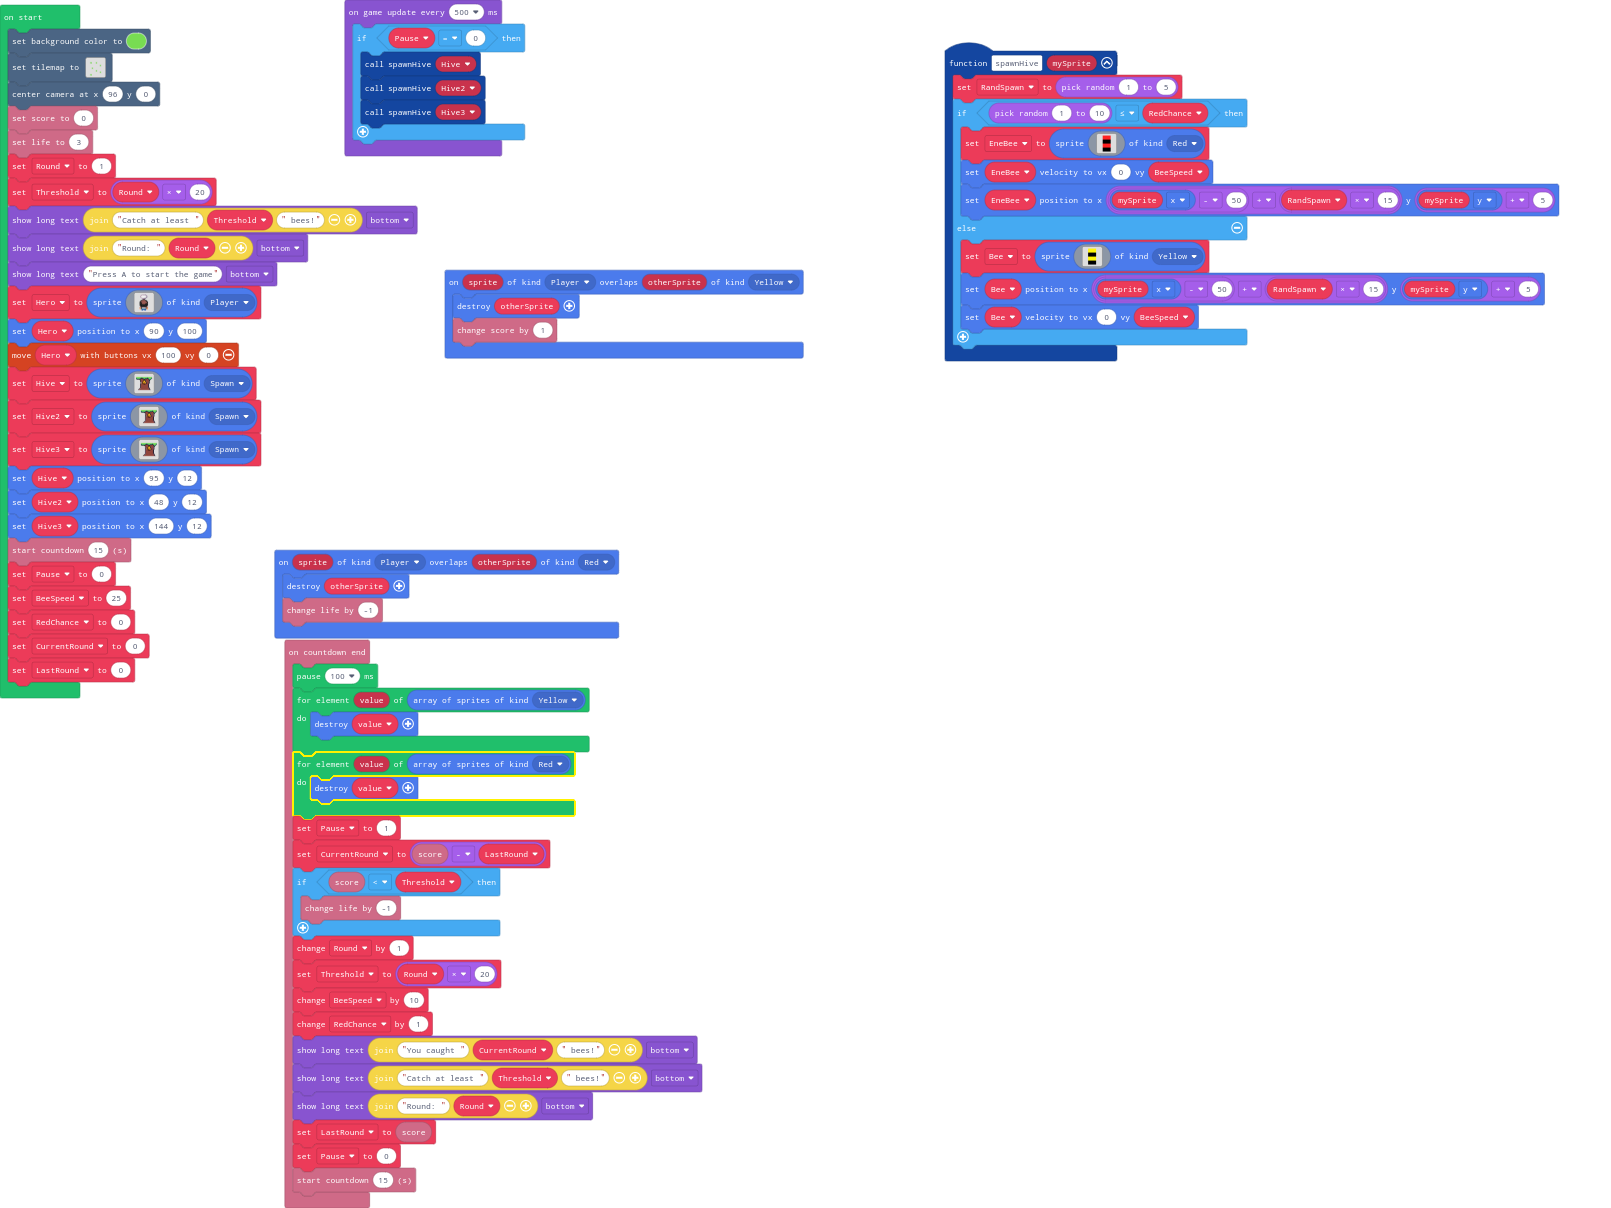
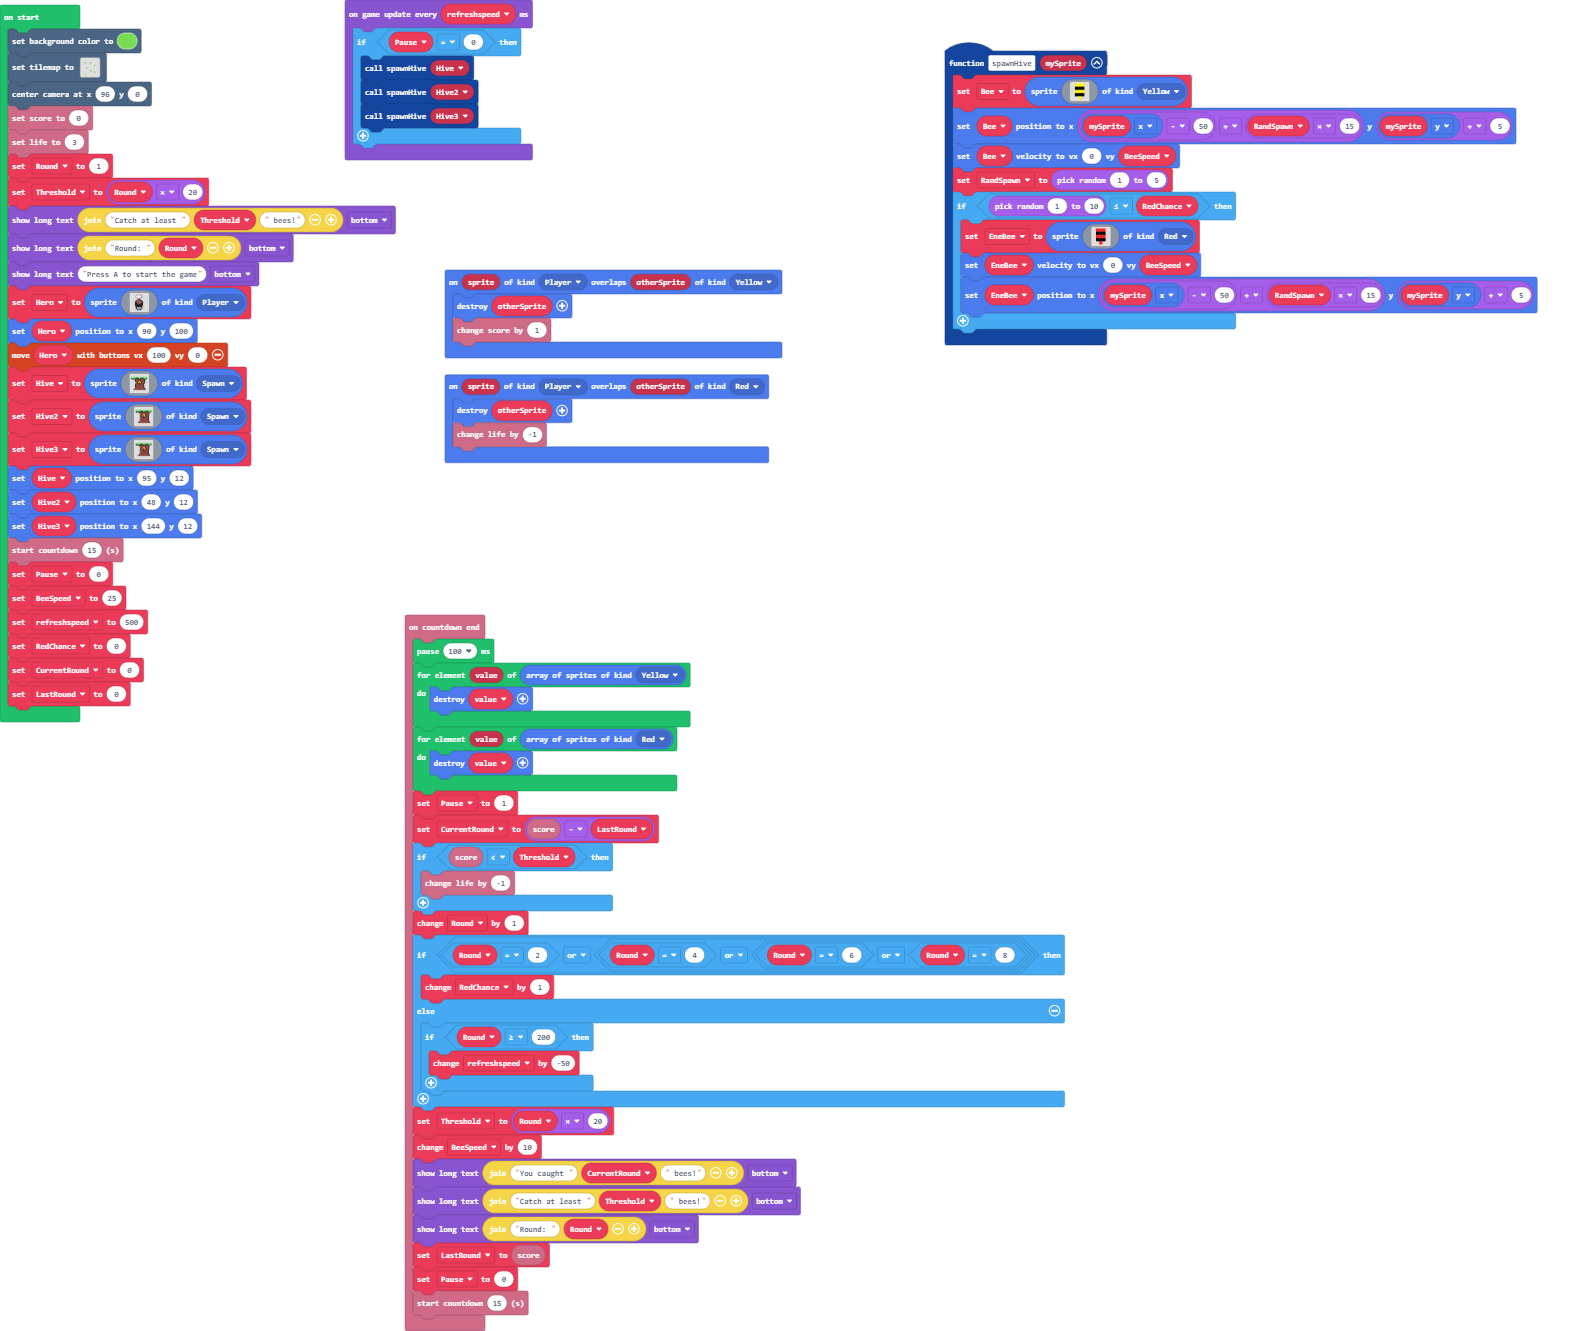
Update main.blocks, main.ts

Changed region(s): [[0.1542, 0.4288, 0.6784, 1.0], [0.0, 0.0, 0.5242, 0.582], [0.5859, 0.0306, 0.9868, 0.3063]]

diff --git a/main.ts b/main.ts
@@ -4,25 +4,26 @@ namespace SpriteKind {
     export const Red = SpriteKind.create()
 }
 function spawnHive (mySprite: Sprite) {
+    Bee = sprites.create(img`
+        5 5 5 
+        f f f 
+        5 5 5 
+        f f f 
+        . 5 . 
+        `, SpriteKind.Yellow)
+    Bee.setPosition(mySprite.x - 50 + RandSpawn * 15, mySprite.y + 5)
+    Bee.setVelocity(0, BeeSpeed)
     RandSpawn = randint(1, 5)
     if (randint(1, 10) <= RedChance) {
         EneBee = sprites.create(img`
-            2 2 
-            f f 
-            2 2 
-            f f 
+            2 2 2 
+            f f f 
+            2 2 2 
+            f f f 
+            . 2 . 
             `, SpriteKind.Red)
         EneBee.setVelocity(0, BeeSpeed)
         EneBee.setPosition(mySprite.x - 50 + RandSpawn * 15, mySprite.y + 5)
-    } else {
-        Bee = sprites.create(img`
-            5 5 
-            f f 
-            5 5 
-            f f 
-            `, SpriteKind.Yellow)
-        Bee.setPosition(mySprite.x - 50 + RandSpawn * 15, mySprite.y + 5)
-        Bee.setVelocity(0, BeeSpeed)
     }
 }
 sprites.onOverlap(SpriteKind.Player, SpriteKind.Yellow, function (sprite, otherSprite) {
@@ -43,9 +44,15 @@ info.onCountdownEnd(function () {
         info.changeLifeBy(-1)
     }
     Round += 1
+    if (Round == 2 || (Round == 4 || (Round == 6 || Round == 8))) {
+        RedChance += 1
+    } else {
+        if (Round >= 200) {
+            refreshspeed += -50
+        }
+    }
     Threshold = Round * 20
     BeeSpeed += 10
-    RedChance += 1
     game.showLongText("You caught " + CurrentRound + " bees!", DialogLayout.Bottom)
     game.showLongText("Catch at least " + Threshold + " bees!", DialogLayout.Bottom)
     game.showLongText("Round: " + Round, DialogLayout.Bottom)
@@ -57,9 +64,9 @@ sprites.onOverlap(SpriteKind.Player, SpriteKind.Red, function (sprite, otherSpri
     otherSprite.destroy()
     info.changeLifeBy(-1)
 })
-let Bee: Sprite = null
 let EneBee: Sprite = null
 let RandSpawn = 0
+let Bee: Sprite = null
 let LastRound = 0
 let CurrentRound = 0
 let RedChance = 0
@@ -207,10 +214,11 @@ Hive3.setPosition(144, 12)
 info.startCountdown(15)
 Pause = 0
 BeeSpeed = 25
+let refreshspeed = 500
 RedChance = 0
 CurrentRound = 0
 LastRound = 0
-game.onUpdateInterval(500, function () {
+game.onUpdateInterval(refreshspeed, function () {
     if (Pause == 0) {
         spawnHive(Hive)
         spawnHive(Hive2)
